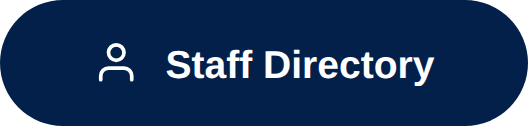
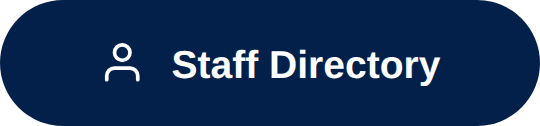
Swap the home row to Drawing Standards
IT declined the issue sheet and HR declined the expense form, so those
two pills are gone -- a button that opens nothing is worse than no
button. Drawing Standards takes the third slot.

It carries a file icon rather than the book already on the Office
Standards card: the card opens a folder, this opens the one document.

Drawing Standards is now the longest label, so the canvas grew from 528
to 540 and all three are re-cut to share it.

Claude-Session: https://claude.ai/code/session_01YAQcUYpy57Up3cir28mVUA

diff --git a/design/gen_pills_small.py b/design/gen_pills_small.py
@@ -16,10 +16,13 @@ OUT = "/home/user/drawing-set/google-sites/buttons"
 SVG = json.load(open(os.path.dirname(os.path.abspath(__file__)) + "/icon_svg.json"))
 
 H, PAD, FS, IC, GAP = 42, 18, 13, 15.5, 8.5
-LABELS = [("staff-directory", "directory", "Staff Directory"),
-          ("signup-present",  "calendar",  "Sign up to present"),
-          ("it-issue",        "tool",      "IT issue"),
-          ("expense",         "ft-sheet",  "Expense")]
+# IT dropped the issue sheet and HR dropped the expense form, so neither
+# gets a button -- a pill that opens nothing is worse than no pill.
+# Drawing Standards uses a file icon rather than the book: the card opens a
+# folder, this opens the one document people are actually after.
+LABELS = [("staff-directory",   "directory", "Staff Directory"),
+          ("signup-present",    "calendar",  "Sign up to present"),
+          ("drawing-standards", "ft-pdf",    "Drawing Standards")]
 
 CSS = """
 <link href="https://fonts.googleapis.com/css2?family=Montserrat:wght@600&display=swap" rel="stylesheet">
@@ -75,7 +78,7 @@ async def main():
         await b.close()
 
     from PIL import Image
-    im = Image.open("%s/pill-expense-white.png" % OUT)
+    im = Image.open("%s/pill-%s-white.png" % (OUT, LABELS[0][0]))
     print("\ncanvas %dx%d  ratio %.2f:1" % (im.width, im.height, im.width / im.height))
     for w in (160, 180, 200):
         print("  at %dpx wide -> %.0fpx tall, type reads ~%.1fpx"
